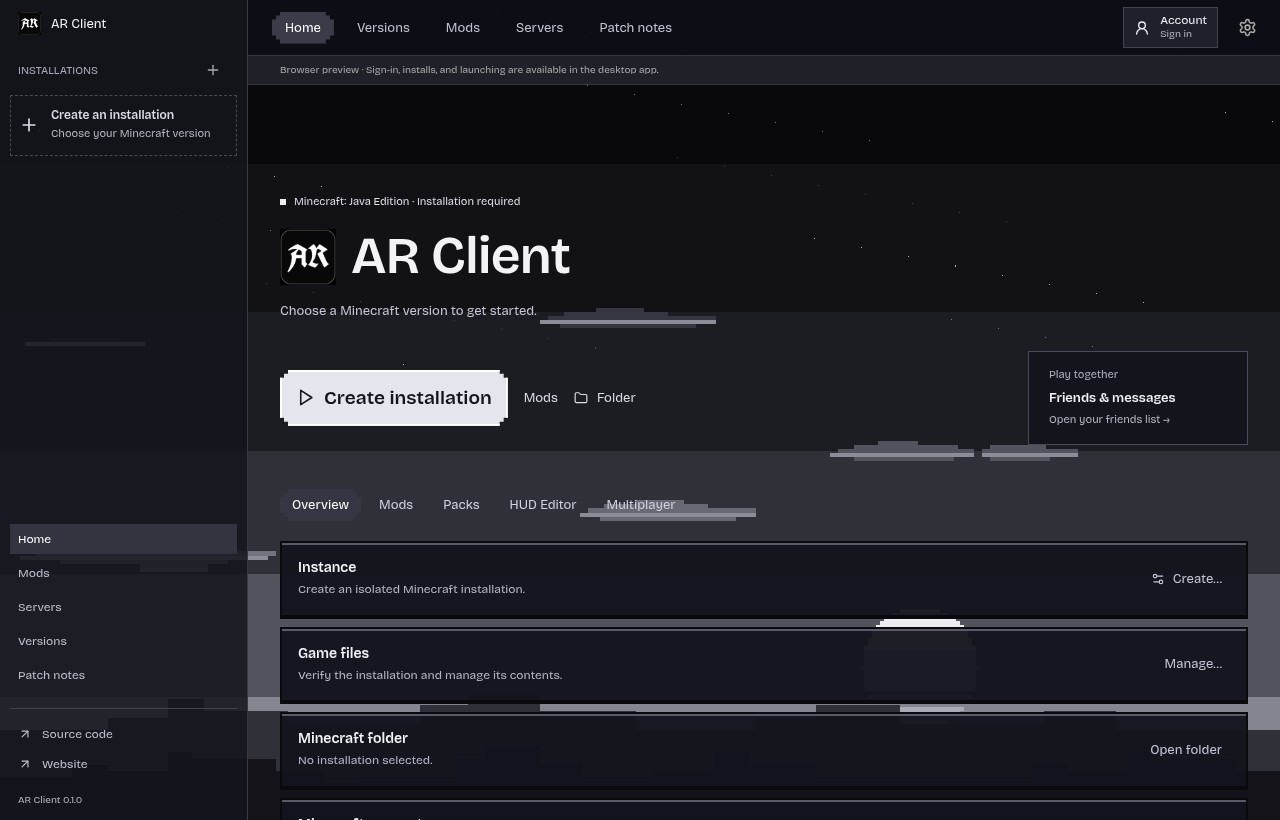
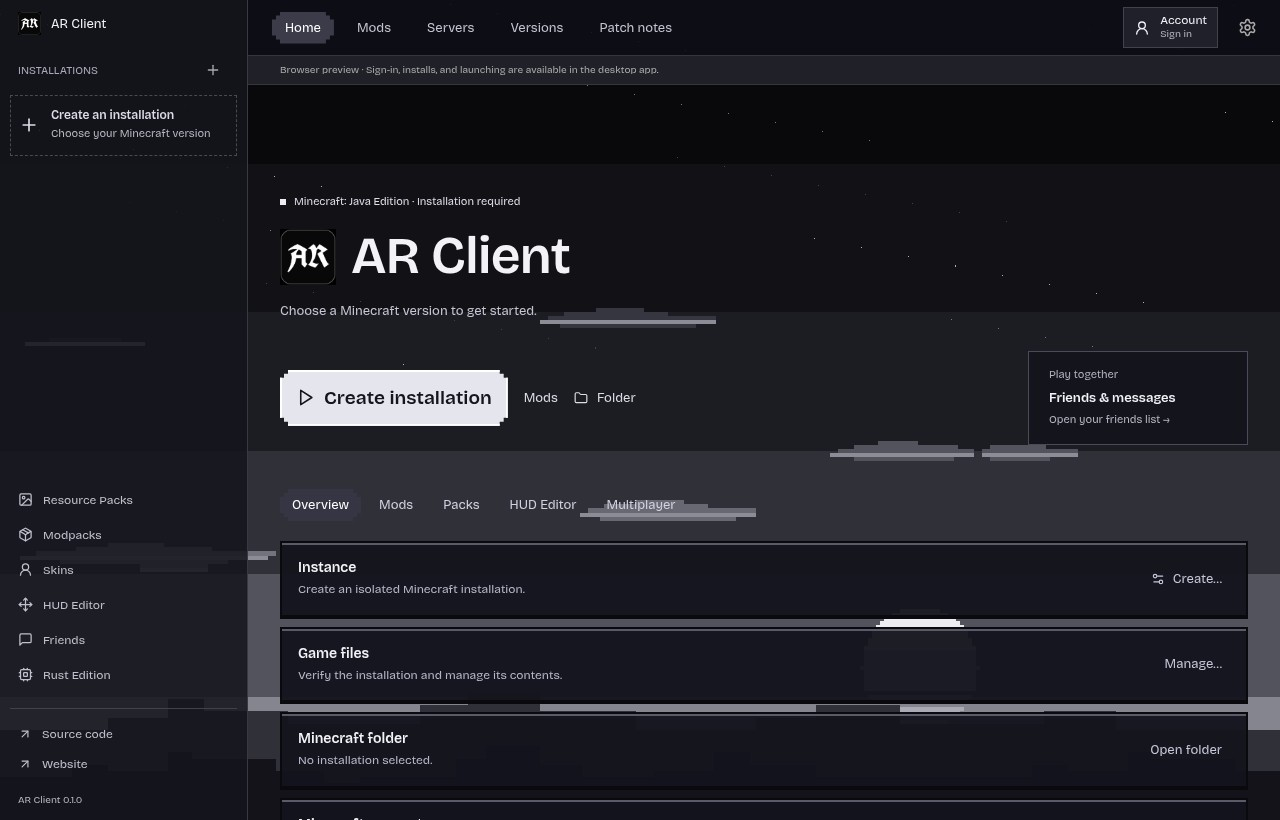
Preserve library routes beside Horizon-style top navigation

diff --git a/src/main.tsx b/src/main.tsx
@@ -238,22 +238,27 @@ function App() {
           )}
         </nav>
         <nav className="sidebar-tools" aria-label="Library">
-          {(
-            ["Home", "Mods", "Servers", "Installations", "Updates"] as Page[]
-          ).map((name) => (
-            <button
-              key={name}
-              className={page === name ? "active" : ""}
-              aria-current={page === name ? "page" : undefined}
-              onClick={() => setPage(name)}
-            >
-              {name === "Installations"
-                ? "Versions"
-                : name === "Updates"
-                  ? "Patch notes"
-                  : name}
-            </button>
-          ))}
+          {nav
+            .filter(([name]) =>
+              [
+                "Friends",
+                "Skins",
+                "HUD Editor",
+                "Resource Packs",
+                "Modpacks",
+                "Rust Edition",
+              ].includes(name),
+            )
+            .map(([name, Icon]) => (
+              <button
+                key={name}
+                aria-current={page === name ? "page" : undefined}
+                onClick={() => setPage(name)}
+              >
+                <Icon size={15} />
+                {name}
+              </button>
+            ))}
         </nav>
         <div className="sidebar-info">
           <button
@@ -277,26 +282,22 @@ function App() {
           <span>AR Client</span>
         </button>
         <nav className="header-nav" aria-label="Main navigation">
-          {nav
-            .filter(([name]) =>
-              ["Home", "Mods", "Servers", "Installations", "Updates"].includes(
-                name,
-              ),
-            )
-            .map(([name]) => (
-              <button
-                key={name}
-                className={page === name ? "active" : ""}
-                aria-current={page === name ? "page" : undefined}
-                onClick={() => setPage(name)}
-              >
-                {name === "Installations"
-                  ? "Versions"
-                  : name === "Updates"
-                    ? "Patch notes"
-                    : name}
-              </button>
-            ))}
+          {(
+            ["Home", "Mods", "Servers", "Installations", "Updates"] as Page[]
+          ).map((name) => (
+            <button
+              key={name}
+              className={page === name ? "active" : ""}
+              aria-current={page === name ? "page" : undefined}
+              onClick={() => setPage(name)}
+            >
+              {name === "Installations"
+                ? "Versions"
+                : name === "Updates"
+                  ? "Patch notes"
+                  : name}
+            </button>
+          ))}
         </nav>
         <button
           className="header-account"
